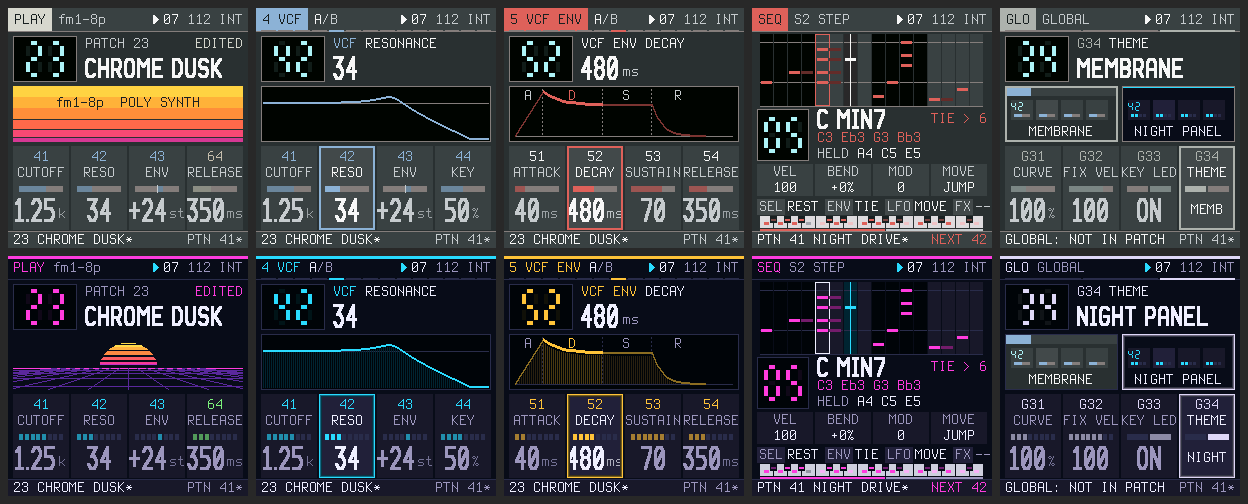
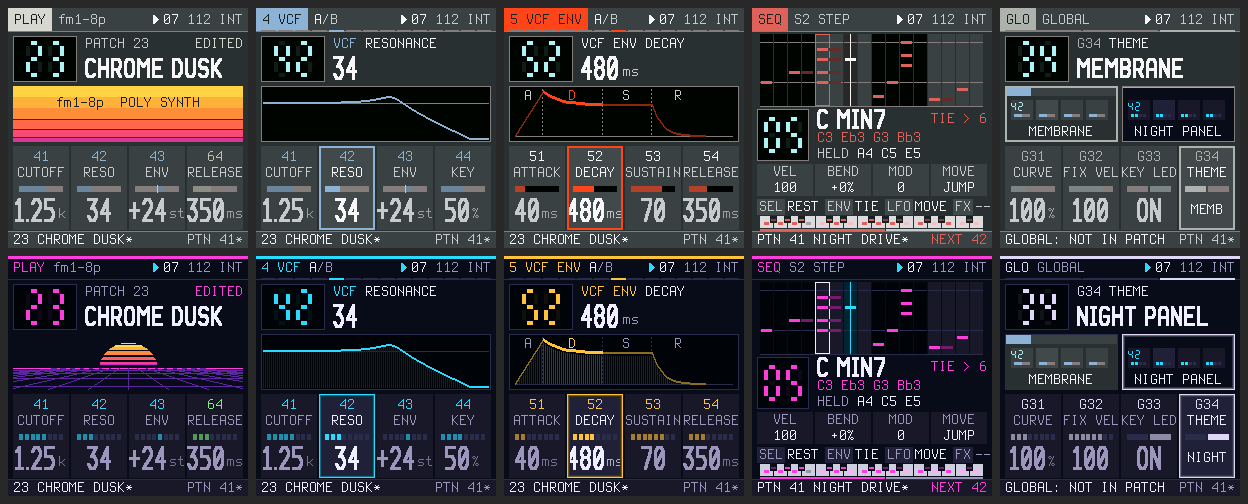
docs: ENV-1's orange red and the fill-only meter track, in visual.md and the mockups (Refs #47)
Assisted-by: Claude Code:claude-opus-5-5

diff --git a/docs/ui/mockups/render.py b/docs/ui/mockups/render.py
@@ -401,10 +401,11 @@ THEMES = {
         # the buttons: red (top left, COPY/WRITE), amber (KEY MODE, AFTER TOUCH), cream-gray (TONE),
         # light gray (EDIT), blue (PATCH CHAIN), lightened to meet the contrast rules; the red stays the
         # panel's red, a fill only (its text takes the lettering)
-        sec={"DCO-1": "#DE615A", "DCO-2": "#D8AC5F", "MIX": "#CDCAC4", "VCF": "#8DB0D6", "VCF ENV": "#DE615A",
+        sec={"DCO-1": "#DE615A", "DCO-2": "#D8AC5F", "MIX": "#CDCAC4", "VCF": "#8DB0D6", "VCF ENV": "#FF4518",
              "VCA": "#C2BCAE", "LFO": "#B0C8E2", "CTRL": "#CCA869", "SEQ": "#DE615A", "GLO": "#AAB0AC",
              "PLAY": "#D6D5CE"},
         fill_only=("DCO-1", "VCF ENV", "SEQ"),     # the red: too dark for text, its text the lettering
+        fill_track="#050506",       # the meter track under a fill-only bar: the LED window
         sun=["#FFD040", "#FFB038", "#FF8C38", "#FF6848", "#F04870", "#D03890"], grid=None, horizon=None,
     ),
     "night-panel": dict(
@@ -426,6 +427,7 @@ THEMES = {
              "VCA": "#7CF07C", "LFO": "#B07CFF", "CTRL": "#3DA0FF", "SEQ": "#FF3DD8", "GLO": "#D8D4F0",
              "PLAY": "#FF3DD8"},
         fill_only=(),
+        fill_track="#2E2E4C",
         sun=["#FFD84A", "#FFB040", "#FF8840", "#FF5C60", "#F03C90", "#C030C0"], grid="#5A2A9A", horizon="#FF3DD8",
     ),
 }
@@ -610,11 +612,11 @@ def focus_frames(sc, t, x, y, w, h, col, bg):
         sc.frame(x + i, y + i, w - 2 * i, h - 2 * i, mix(bg, col, m))
 
 
-def meter(sc, t, x, y, w, h, val, col, active, bg):
+def meter(sc, t, x, y, w, h, val, col, active, bg, sec=None):
     """A knob's position. ('range', f), ('bipolar', f -1..1) or ('choice', i, n). A theme with
     meter_segments 0 draws a continuous bar; a choice always draws one segment per choice."""
     on_c = col if active else mix(bg, col, 0.6)
-    off_c = t["line"]
+    off_c = t["fill_track"] if sec in t["fill_only"] else t["line"]   # dark under a fill-only bar
     kind = val[0]
     if kind == "choice":
         _, i, n = val
@@ -666,7 +668,7 @@ def knob_columns(sc, t, rows, focus, sec_of=None):
         sc.fill(x, y, COL_W, h, bg)
         sc.text(x, y + 3, n, text_accent(t, sec), align="c", w=COL_W)
         sc.text(x, y + 19, label, t["text"] if act else t["dim"], align="c", w=COL_W)
-        meter(sc, t, x + 6, y + 40, COL_W - 12, 6, mval, col, act, bg)
+        meter(sc, t, x + 6, y + 40, COL_W - 12, 6, mval, col, act, bg, sec)
         if sc.dtext_w("D24", val) <= COL_W - 4 or not val.isalpha():
             value_text(sc, t, x, COL_W, y + 52, val, unit, t["text"] if act else t["dim"])
         else:                             # a long choice falls back to Terminus

diff --git a/docs/ui/visual.md b/docs/ui/visual.md
@@ -147,6 +147,9 @@ read as pink (Eric, 2026-11-14), so it stays the panel's red and is a fill only.
 chip, the page strip, meters, focus frames and graph lines, the number jump puts each digit on a
 chip of its section's color, and where a red section would color text (the focus row's section name,
 the knob numbers) the text takes the lettering instead. The theme's `fill_only` lists these sections.
+Their meter bars sit on a near-black track (`fill_track`, the LED window's `0020`), so a bar stands
+out by lightness and not by hue alone. VCF ENV takes a more orange red of its own, `FA23`, so ENV-1
+stays apart from DCO-1 (Eric, 2026-11-14).
 
 | section | Membrane | Night Panel |
 | --- | --- | --- |
@@ -154,7 +157,7 @@ the knob numbers) the text takes the lettering instead. The theme's `fill_only` 
 | 2x DCO-2 | `DD6B` amber (KEY MODE) | `FC47` orange |
 | 3x MIX | `CE58` cream-gray (TONE) | `DEBE` lilac white |
 | 4x VCF | `8D9A` blue (PATCH CHAIN) | `2EDF` cyan |
-| 5x VCF ENV | `DB0B` red, fill only | `FE07` amber |
+| 5x VCF ENV | `FA23` orange red, fill only | `FE07` amber |
 | 6x VCA | `C5F5` light gray (EDIT) | `7F8F` green |
 | 7x LFO | `B65C` pale blue | `B3FF` violet |
 | 8x CTRL | `CD4D` amber (AFTER TOUCH) | `3D1F` blue |
@@ -171,6 +174,8 @@ All ratios are WCAG ratios, computed on the quantized RGB565 values.
 - **Section colors:** at least 4.7:1 on `surface` and 4.9:1 on `bg`, except a fill-only color.
 - **Fills:** every section color at least 3.0:1 on `surface`, and with a chip header, `ink` on it at
   least 4.5:1.
+- **Fill-only meters:** the bar at least 3.0:1 on `fill_track`, lit or dimmed, and the track at least
+  1.8:1 on `surface` and `surface_hi`.
 
 ### Where the layouts differ, and why it stays minimal
 
